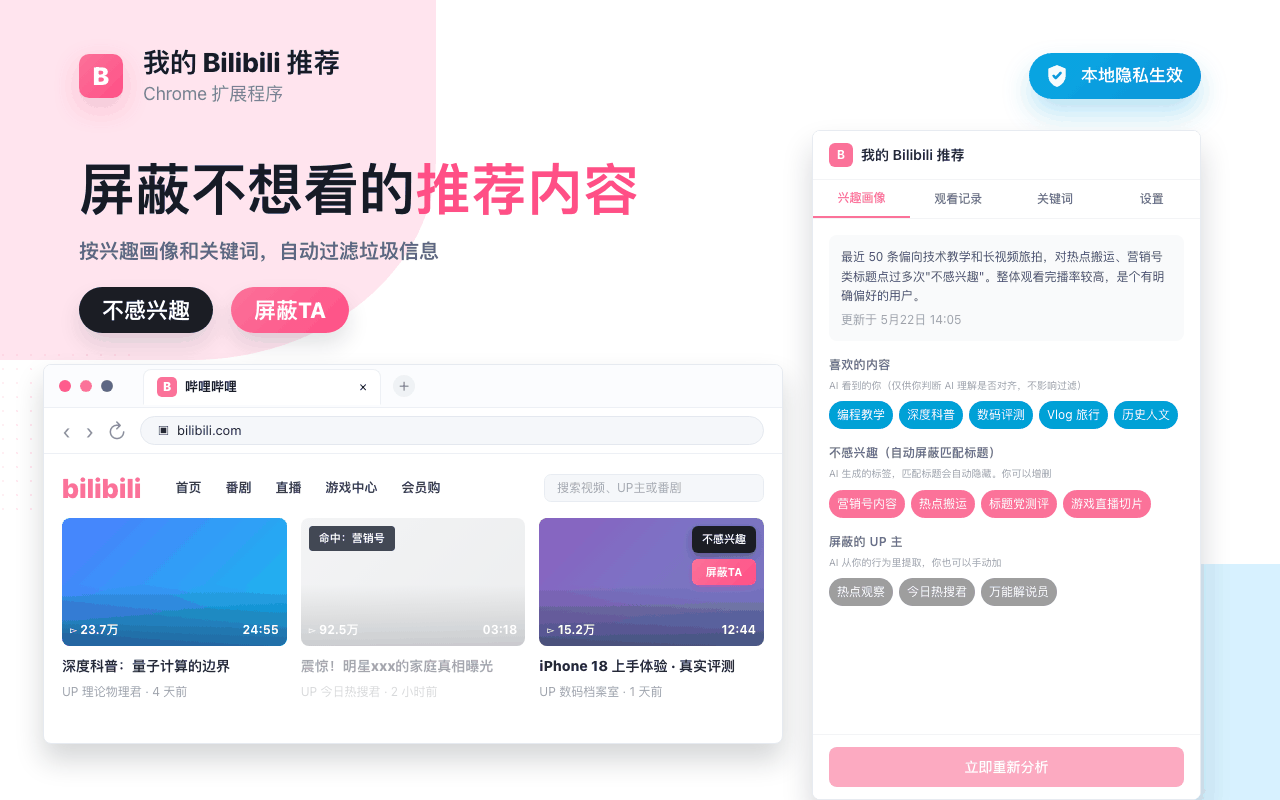
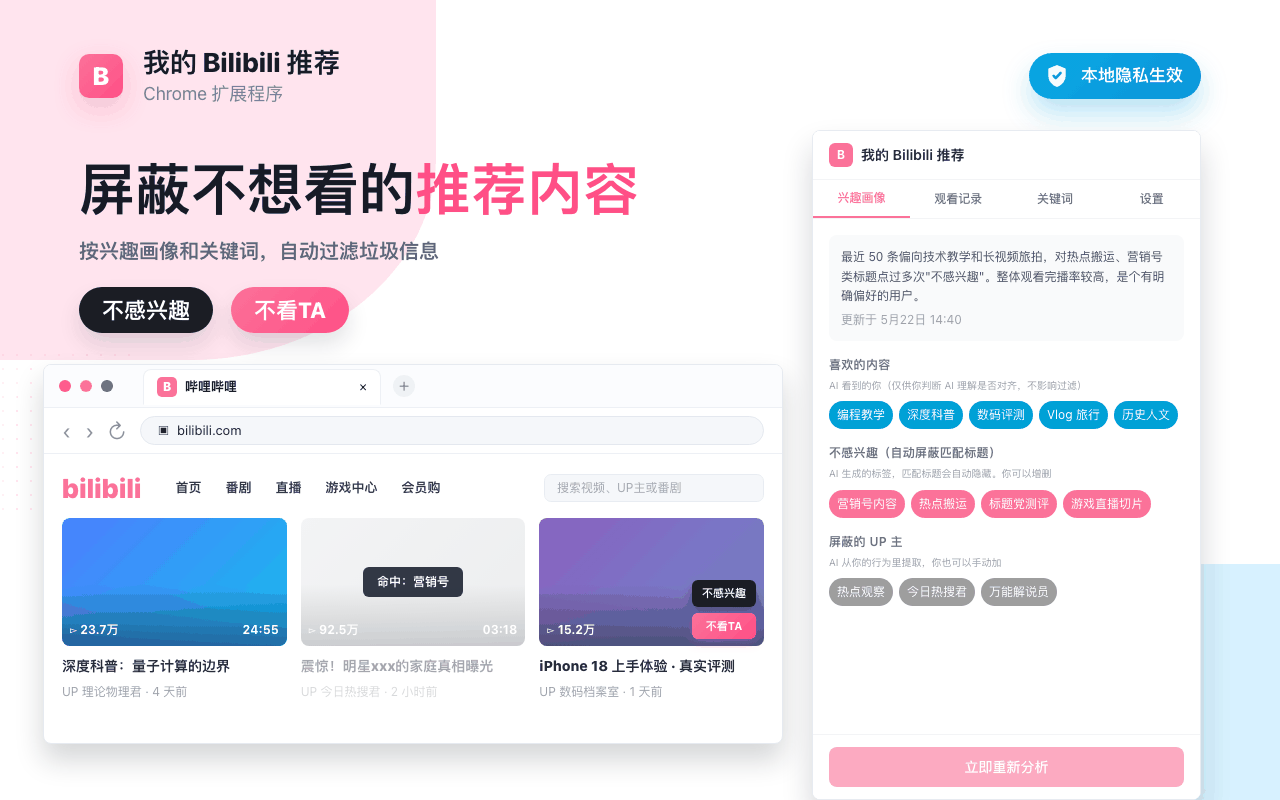
fix(promo): align filter scene overlays + use real "不看TA" label
Three corrections to filter-recommendations:

- FilteredCard's "命中：<reason>" badge moved from top-left to the
  vertical+horizontal center of the thumbnail (top: 64, left: 50% +
  translate -50/-50%) — matches the real extension's overlay position
  when a card gets auto-filtered.
- HoverActions buttons moved from top-right to bottom-right of the
  thumbnail (top: 62 anchors a ~58px button stack to ~8px above the
  128px-tall thumbnail bottom).
- The action button label was "屏蔽TA", but the real extension
  surfaces it as "不看TA" (README §其他细节 confirms). Updated both
  the HoverActions button and the matching hero pill in the scene.

Changed region(s): [[0.5312, 0.6562, 0.5938, 0.8125], [0.2188, 0.6562, 0.375, 0.75], [0.1875, 0.375, 0.25, 0.4062]]

diff --git a/src/promo/components/bilibili/HoverActions.tsx b/src/promo/components/bilibili/HoverActions.tsx
@@ -4,10 +4,13 @@ export default function HoverActions({ children }: { children: ReactNode }) {
   return (
     <div style={{ position: 'relative' }}>
       {children}
-      {/* Floating action buttons over thumbnail top-right corner */}
+      {/* Floating action buttons at thumbnail bottom-right corner.
+          Thumbnail height = 128 from VideoCard; two ~26px buttons + 6px gap
+          = ~58px stack, anchored 8px above thumbnail bottom edge → top: 62.
+          Labels match the real extension UI ("不感兴趣" + "不看TA"). */}
       <div style={{
         position: 'absolute',
-        top: 8, right: 8,
+        top: 62, right: 8,
         display: 'flex',
         flexDirection: 'column',
         gap: 6,
@@ -34,7 +37,7 @@ export default function HoverActions({ children }: { children: ReactNode }) {
           border: 'none',
           boxShadow: '0 4px 10px rgba(251, 79, 134, 0.35)',
           whiteSpace: 'nowrap',
-        }}>屏蔽TA</button>
+        }}>不看TA</button>
       </div>
     </div>
   )

diff --git a/src/promo/components/bilibili/FilteredCard.tsx b/src/promo/components/bilibili/FilteredCard.tsx
@@ -12,16 +12,19 @@ export default function FilteredCard({ data, reason }: FilteredCardProps) {
       <div style={{ opacity: 0.4, filter: 'grayscale(0.6)' }}>
         <VideoCard data={data} />
       </div>
-      {/* Top-left badge: "命中: <reason>" */}
+      {/* Center badge on the thumbnail (thumbnail height = 128 from VideoCard).
+          Positioned absolutely at the visual center of the thumbnail area. */}
       <div style={{
         position: 'absolute',
-        top: 8, left: 8,
-        padding: '4px 10px',
-        borderRadius: 4,
-        background: 'rgba(17, 24, 39, 0.78)',
+        top: 64, left: '50%',
+        transform: 'translate(-50%, -50%)',
+        padding: '6px 14px',
+        borderRadius: 6,
+        background: 'rgba(17, 24, 39, 0.85)',
         color: '#ffffff',
-        fontSize: 11,
-        fontWeight: 700,
+        fontSize: 12,
+        fontWeight: 800,
+        whiteSpace: 'nowrap',
         zIndex: 2,
       }}>
         命中：{reason}

diff --git a/src/promo/scenes/filter-recommendations.tsx b/src/promo/scenes/filter-recommendations.tsx
@@ -109,7 +109,7 @@ export default function FilterRecommendationsScene() {
             color: 'white', fontSize: 22, fontWeight: 800, lineHeight: 1,
             background: 'linear-gradient(135deg, #fb7299 0%, #ff4f86 100%)',
             boxShadow: '0 12px 22px rgba(23, 27, 38, 0.12)',
-          }}>屏蔽TA</div>
+          }}>不看TA</div>
         </div>
       </section>
 
